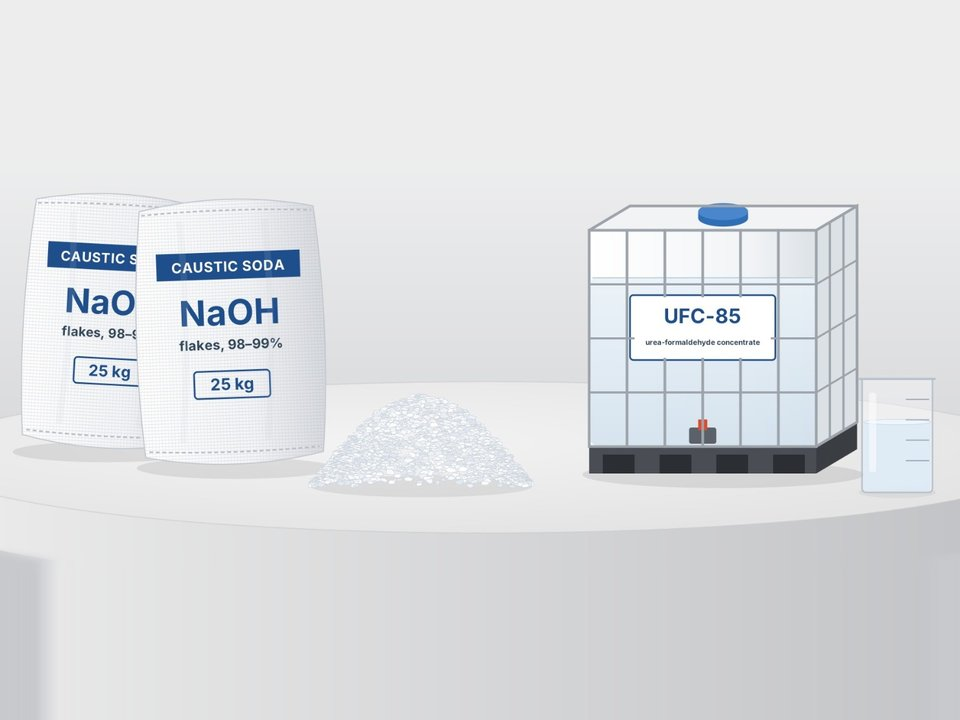
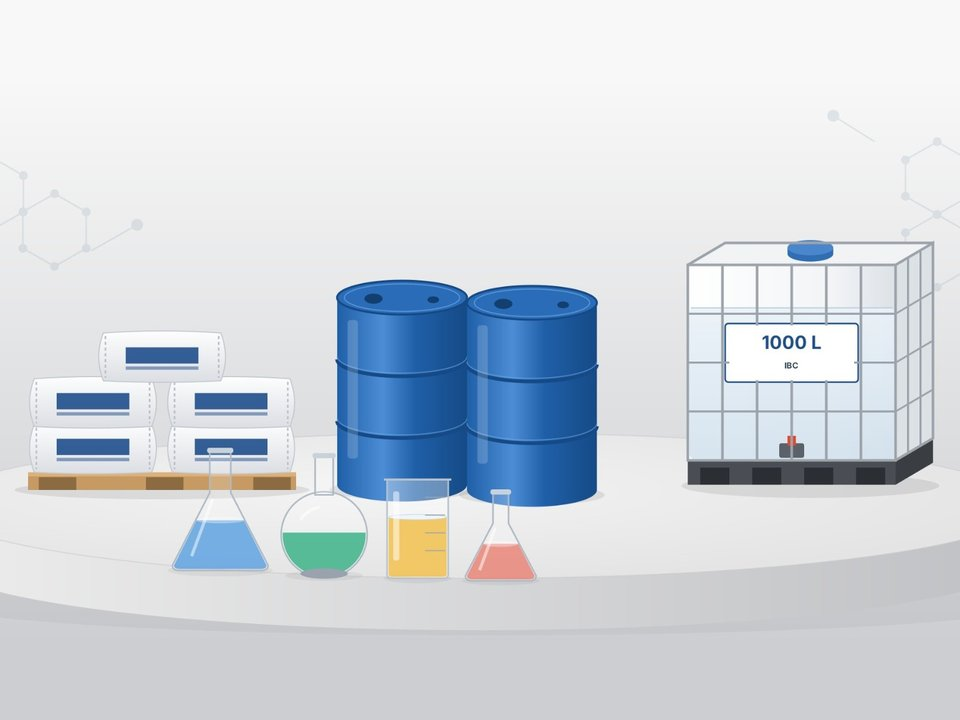
Chemical imports card: new illustration (bags, drums, IBC, flasks)
Claude-Session: https://claude.ai/code/session_016sCuQqi6TPsQvyxFB8uVLd

diff --git a/docs/ru/index.html b/docs/ru/index.html
@@ -94,7 +94,7 @@
           </div>
         </article>
         <article class="dir-card">
-          <a class="dir-card-media has-photo" href="import.html" tabindex="-1" aria-hidden="true"><img src="../assets/img/import-1.jpg?v=d8c99492" alt="" loading="lazy"></a>
+          <a class="dir-card-media has-photo" href="import.html" tabindex="-1" aria-hidden="true"><img src="../assets/img/import-1.jpg?v=8f9e4c50" alt="" loading="lazy"></a>
           <div class="dir-card-body">
             <h3><a href="import.html">Импорт химической продукции</a></h3>
             <p>Каустическая сода и КФК крупным оптом для промышленных предприятий.</p>

diff --git a/docs/tk/index.html b/docs/tk/index.html
@@ -94,7 +94,7 @@
           </div>
         </article>
         <article class="dir-card">
-          <a class="dir-card-media has-photo" href="import.html" tabindex="-1" aria-hidden="true"><img src="../assets/img/import-1.jpg?v=d8c99492" alt="" loading="lazy"></a>
+          <a class="dir-card-media has-photo" href="import.html" tabindex="-1" aria-hidden="true"><img src="../assets/img/import-1.jpg?v=8f9e4c50" alt="" loading="lazy"></a>
           <div class="dir-card-body">
             <h3><a href="import.html">Himiýa önümleriniň importy</a></h3>
             <p>Senagat kärhanalary üçin uly lomaý möçberde kaustik soda we KFK.</p>

diff --git a/docs/en/index.html b/docs/en/index.html
@@ -94,7 +94,7 @@
           </div>
         </article>
         <article class="dir-card">
-          <a class="dir-card-media has-photo" href="import.html" tabindex="-1" aria-hidden="true"><img src="../assets/img/import-1.jpg?v=d8c99492" alt="" loading="lazy"></a>
+          <a class="dir-card-media has-photo" href="import.html" tabindex="-1" aria-hidden="true"><img src="../assets/img/import-1.jpg?v=8f9e4c50" alt="" loading="lazy"></a>
           <div class="dir-card-body">
             <h3><a href="import.html">Chemical imports</a></h3>
             <p>Caustic soda and UFC in bulk for industrial companies.</p>
